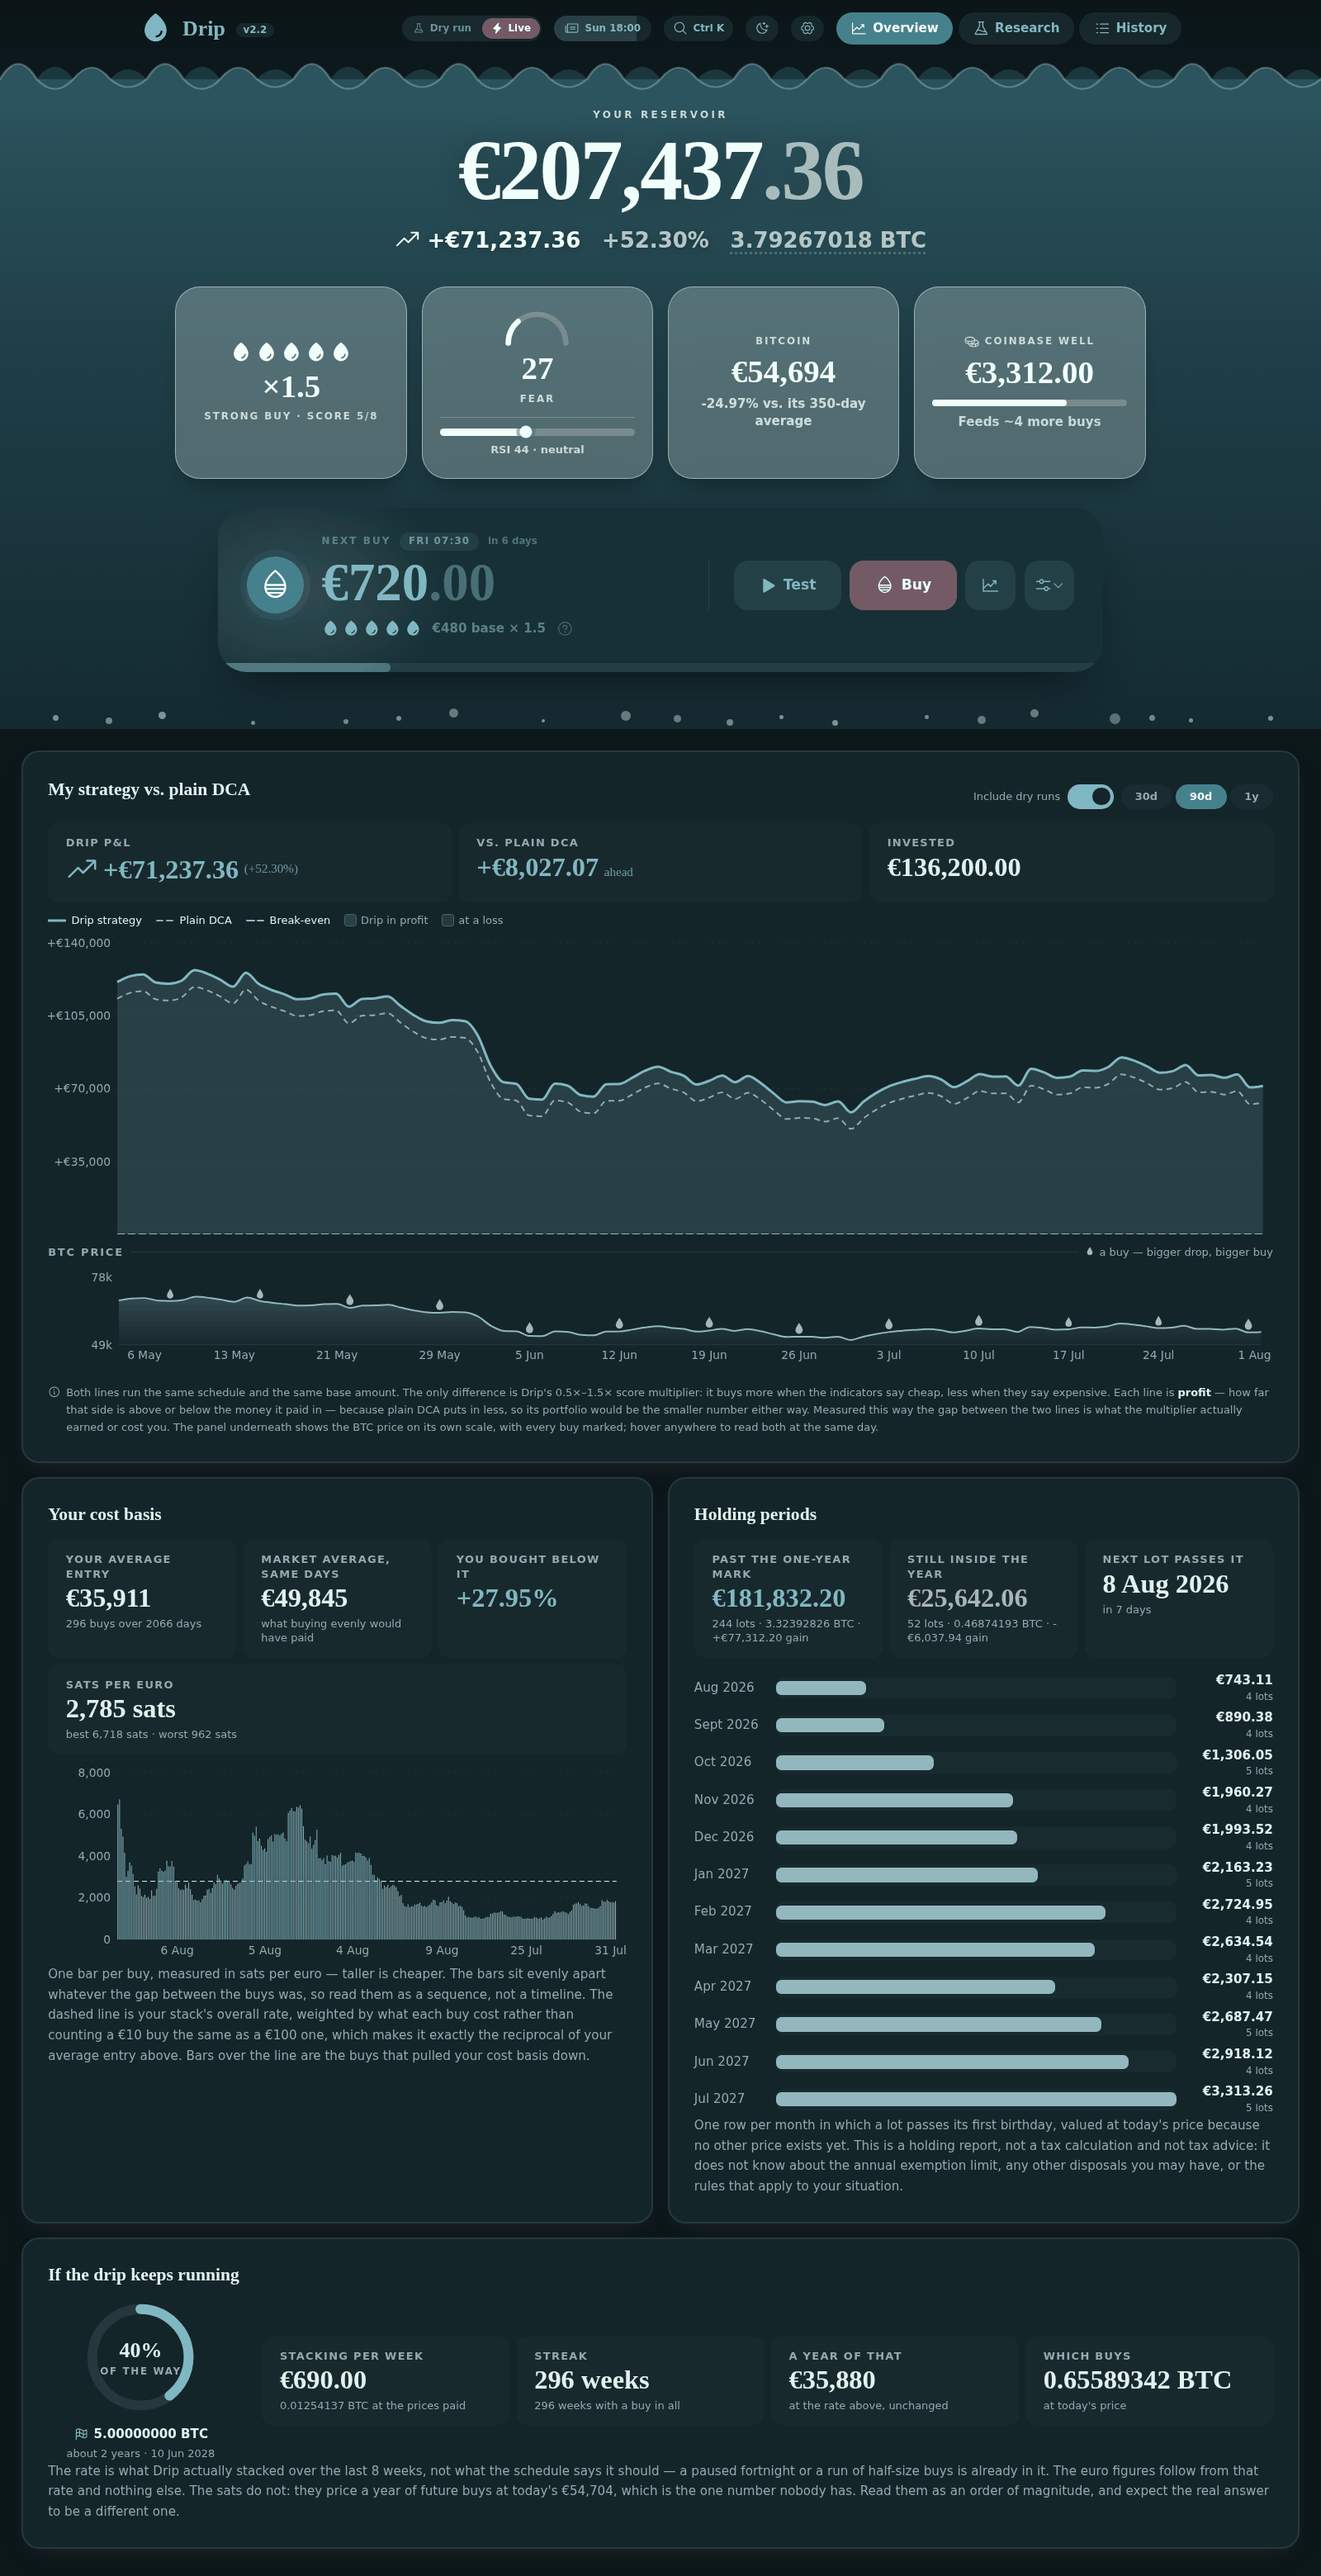
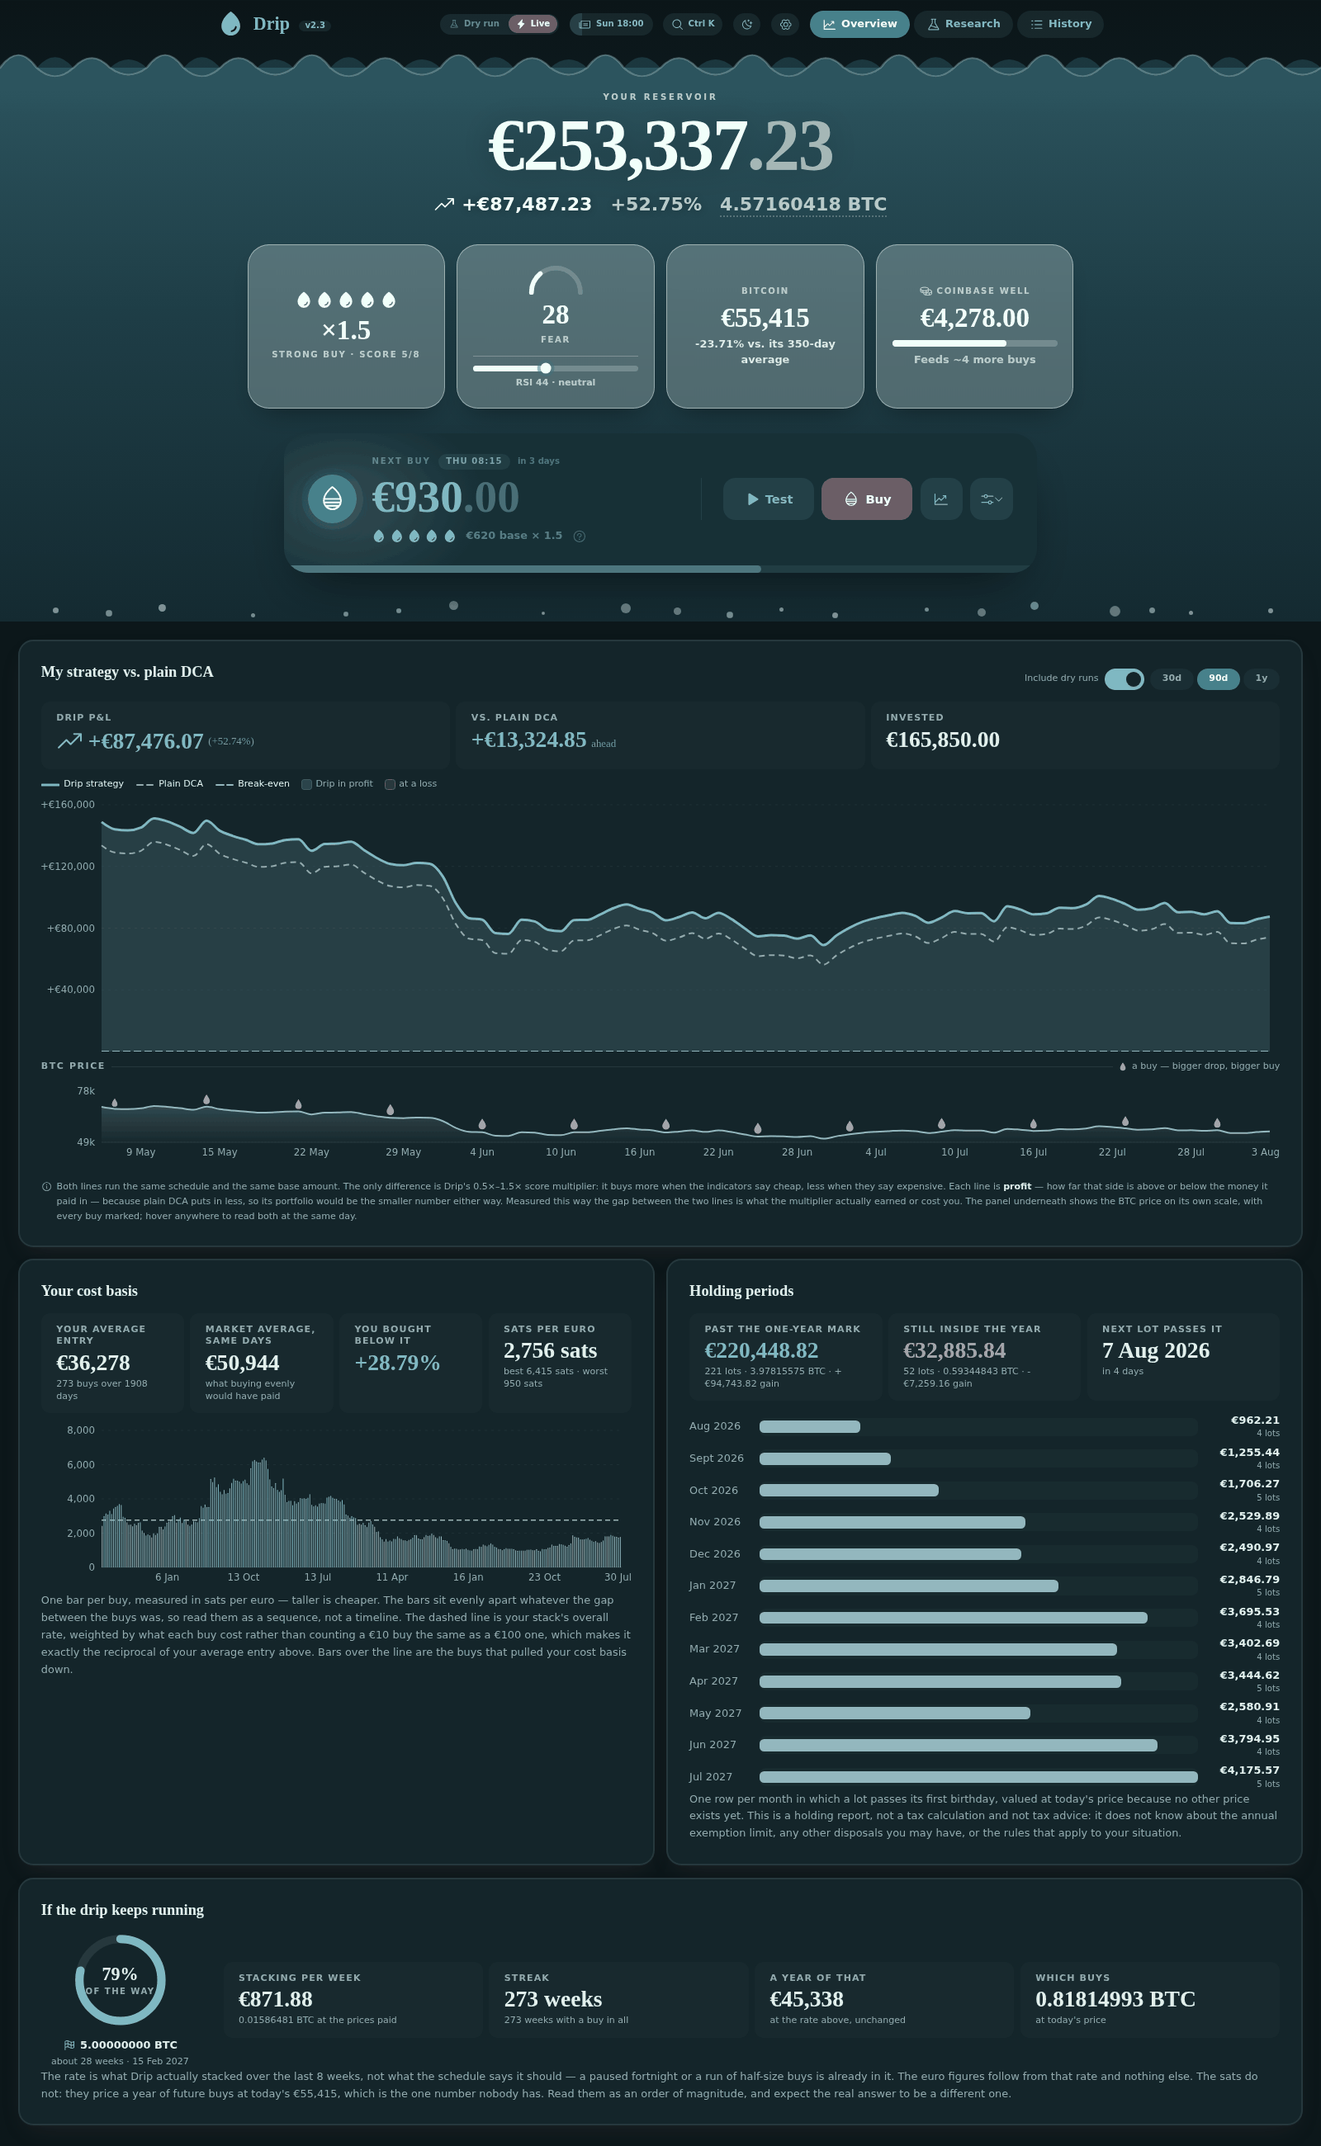
upd: smaller type on desktop

diff --git a/frontend/src/index.css b/frontend/src/index.css
@@ -118,11 +118,11 @@ body,
  * the container widths above — so moving the root size moves the entire
  * layout together instead of leaving big numbers stranded in small padding.
  *
- * Read it as: 15px on a 1280px laptop, ~19.6px on Full HD, 24px at 2560 and
+ * Read it as: 13px on a 1280px laptop, ~16.6px on Full HD, 20px at 2560 and
  * wider. Never set a font size in px again; `text-2xs` is the floor.
  */
 html {
-  font-size: clamp(15px, 0.36rem + 0.72vw, 24px);
+  font-size: clamp(13px, 0.34rem + 0.58vw, 20px);
 }
 
 /* Lets native controls, scrollbars and form widgets follow the theme */

diff --git a/frontend/src/version.ts b/frontend/src/version.ts
@@ -17,6 +17,13 @@ export interface Release {
 
 export const CHANGELOG: Release[] = [
   {
+    version: "2.3",
+    date: "2026-08-03",
+    changes: [
+      "Everything is a step smaller on a desktop screen — the type had grown to where a dashboard meant for one glance no longer fitted one",
+    ],
+  },
+  {
     version: "2.2",
     date: "2026-08-01",
     changes: [

diff --git a/README.md b/README.md
@@ -18,7 +18,7 @@ reports your cost basis against the market and how old each lot is, and carries 
 rate you stack at forward to the next round number of sats. Once a week it sends you
 the whole thing on Discord. `Ctrl+K` reaches all of it, keys and backend included, so
 the Pi needs no shell after the first install. After dark the tank dims with the room,
-and on a large monitor the whole page scales up rather than turning into small print.
+and the whole page scales with the screen it is read on.
 
 ## Install
 
